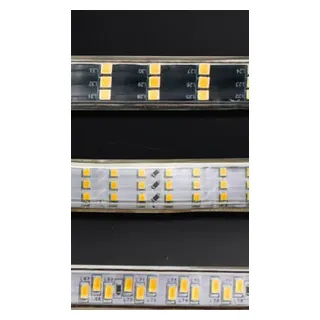
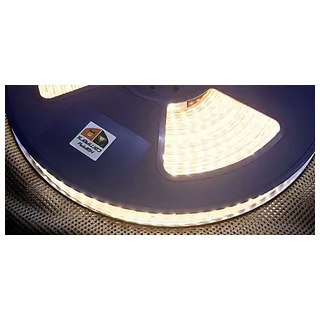
新增 G40 復古 LED 燈串 00、五米十米燈條共用圖、validate 合約同步 16 品項

diff --git a/index.html b/index.html
@@ -2221,7 +2221,7 @@
           <summary>
             <span class="ad-dw-ico">💡</span>
             <span class="ad-dw-t">照明</span>
-            <span class="ad-dw-meta">3 項・$100-300</span>
+            <span class="ad-dw-meta">4 項・$100-300</span>
             <span class="ad-dw-sel" hidden></span>
             <span class="ad-dw-arr" aria-hidden="true">›</span>
           </summary>
@@ -2240,7 +2240,7 @@
             </label>
             <label class="ad-card a-light">
               <input type="checkbox" class="ad-chk" data-name="十米黃光燈條" data-price="300" onchange="addonsUpdate()">
-              <span class="ad-photo"><img src="assets/addon-lamp-10m.webp" alt="十米黃光燈條" width="320" height="320" loading="lazy"></span>
+              <span class="ad-photo"><img src="assets/addon-lamp-5m.webp" alt="十米黃光燈條" width="320" height="320" loading="lazy"></span>
               <span class="ad-info">
                 <span class="ad-brand">照明</span>
                 <span class="ad-name">十米黃光燈條</span>
@@ -2248,6 +2248,18 @@
                 <span class="ad-note">大天幕或雙帳串接適用</span>
               </span>
               <span class="ad-price">$300<small>／次</small></span>
+              <span class="ad-tick" aria-hidden="true">✓</span>
+            </label>
+            <label class="ad-card a-light">
+              <input type="checkbox" class="ad-chk" data-name="G40 復古 LED 燈串" data-price="200" onchange="addonsUpdate()">
+              <span class="ad-photo"><img src="assets/addon-lamp-g40.webp" alt="G40 復古 LED 燈串" width="320" height="320" loading="lazy"></span>
+              <span class="ad-info">
+                <span class="ad-brand">照明</span>
+                <span class="ad-name">G40 復古 LED 燈串</span>
+                <span class="ad-meta"><span class="ad-pill">球泡 G40</span><span class="ad-pill">暖黃光</span><span class="ad-pill">防水</span><span class="ad-pill">戶外串燈</span></span>
+                <span class="ad-note">圓球泡復古氛圍，圍爐區、帳前掛一串超有感</span>
+              </span>
+              <span class="ad-price">$200<small>／次</small></span>
               <span class="ad-tick" aria-hidden="true">✓</span>
             </label>
             <label class="ad-card a-light">

diff --git a/scripts/_prep_lamp_g40.py b/scripts/_prep_lamp_g40.py
@@ -1,0 +1,29 @@
+#!/usr/bin/env python3
+"""燈條共用圖與 G40 圖處理。
+
+燈條共用圖（用戶提供 1024x1024）：裁下半圓盤區避開中央紅字「10米燈條大全配」，
+含圓盤下半弧光、網袋、調光開關與右側電源線。
+G40 圖（用戶提供 800x800）：裁下半部去橘色廣告字，留圓球泡特寫主體。
+輸出均為 320x320 白底 webp。
+"""
+from PIL import Image
+
+BASE = "/home/ubuntu/audit/campcool/assets"
+
+def to_webp(src_img, out_name):
+    canvas = Image.new("RGB", (320, 320), (255, 255, 255))
+    scale = min(310 / src_img.width, 310 / src_img.height)
+    small = src_img.resize((max(1, int(src_img.width * scale)), max(1, int(src_img.height * scale))), Image.LANCZOS)
+    canvas.paste(small, ((320 - small.width) // 2, (320 - small.height) // 2))
+    canvas.save(f"{BASE}/{out_name}", "WEBP", quality=82)
+    print("OK", out_name, src_img.size, "->", canvas.size)
+
+# 燈條共用圖：裁 (130, 470, 830, 830) 白底圓盤下半+網袋+開關+電源線，無紅字
+lamp = Image.open("/tmp/lamp10m_user.png").convert("RGB")
+lamp_c = lamp.crop((130, 490, 830, 830))
+to_webp(lamp_c, "addon-lamp-5m.webp")
+
+# G40：裁 (10, 260, 790, 640) 圓球泡主體，去底部橘字（橘字自 y≈0.80 起）
+g40 = Image.open("/tmp/g40_user.png").convert("RGB")
+g40_c = g40.crop((10, 260, 790, 640))
+to_webp(g40_c, "addon-lamp-g40.webp")

diff --git a/scripts/_grid_lamp_g40.py b/scripts/_grid_lamp_g40.py
@@ -1,0 +1,9 @@
+from PIL import Image
+BASE = "/home/ubuntu/audit/campcool/assets"
+a = Image.open(f"{BASE}/addon-lamp-5m.webp").resize((320, 320))
+b = Image.open(f"{BASE}/addon-lamp-g40.webp").resize((320, 320))
+g = Image.new("RGB", (650, 320), "white")
+g.paste(a, (0, 0))
+g.paste(b, (330, 0))
+g.save("/tmp/lamp_g40_grid.png")
+print("grid saved")

diff --git a/photos-task.md b/photos-task.md
@@ -1,40 +1,58 @@
-# CX40 圖與小物 UI/UX 優化（2026-08-16）
+# 小物區塊最新任務（2026-08-16）
 
-## 用戶需求（第三輪）
-1. 冰虎圖片：用戶提供 `/home/ubuntu/upload/1000033496.avif`（800×800，CX40 白底規格圖：主圖+尺寸標註 586×378×475mm，底部規格表）。
-2. UI/UX：卡片太小、字擠一起。盤點優化：
-   - 現況：`.ad-photo { width:56px; height:56px }`（極小！）、`.ad-brand .64rem`、`.ad-name .92rem`、`.ad-pill .64rem padding:2px 7px`、`.ad-note .68rem`、`.ad-price 1.05rem`、卡片 padding 未指定（預設小）、`.ad-grid 1fr 1fr`（<520px 單欄）。
-   - 卡片 label flex row、gap 10px。
-3. 冰箱注意事項：刪掉 `⚠ 移動冰箱使用注意` + 4 張 cc-notice 卡（2356-2363 行），改為「整體租借保障」：商品有問題請於抵達營區時立即反應；不清楚使用方式請與店家詢問或上網搜尋，使用不當導致故障將酌收費用。
+## 本輪需求（第四輪）
+1. 五米/十米燈條改用同一張圖（10 米燈條共用圖）。
+2. 新增品項：G40 復古 LED 燈串 $200（加入「照明」分類，目前照明分類：五米燈條 $200 / 十米燈條 $300 / 持久帳篷小燈 $100）。
+3. 前輪 UI/UX 優化（卡片放大 + CX40 圖 + 租借保障文案）已 commit c3e3321，CI Site check success，Pages 部署中。
 
-## 現況盤點（index.html）
-- 冰箱卡片：2111 行附近 `<label class="ad-card a-fridge">`，img = `assets/addon-fridge-c40.webp`（第 2114 行）。
-- 注意事項區塊：2356 `<div class="cc-sh">⚠ 移動冰箱使用注意</div>` + 2357 `<hr class="cc-shdiv">` + 2358 `<div class="cc-grid">` + 2359-2362 四張 cc-notice + 2363 `</div>`。後面是 cc-linebanner。
-- 待確認提示（2355）：`※ 標示「待確認」的規格請於 LINE 詢問時一併確認。小物依當日庫存供應。僅「電吉拉 mini 行動電站」需另收押金 $1,000，其餘品項不收押金。`
-- 現有圖片 15 張全有（addon-*.webp 清單已確認）。
-- validate 斷言會檢查：ad-name 15 品項、ad-note 存在、lin.ee、gtag、webp 引用、noindex、死重圖缺席、llms 日期等。
+## 圖片檔案
+- 燈條共用圖（用戶提供）：`/home/ubuntu/upload/1000033498.avif` 轉出 `/tmp/lamp10m_user.png`（1024×1024）
+  - 內容：黑色網袋上的 LED 燈條圓盤＋綠色束帶＋白色電源線＋調光開關，中央紅字「10米燈條大全配」需裁除，上方有小貼紙、左下有 SMD5050 標籤（可保留或裁）。
+  - 裁法：圓盤主體約 (0.13, 0.19, 0.82, 0.82)；紅字在 (0.31-0.64, 0.40-0.46)。裁圓盤區避開紅字：用 (0.14, 0.20, 0.80, 0.80) 但紅字在圓盤內！紅字就在圓盤中央。圓盤中心 y≈0.50，紅字 y≈0.40-0.47。避開紅字要裁掉圓盤上半部——不行。
+  - 最佳解：直接裁圓盤整體（紅字是「10米燈條大全配」五字），然後考慮：五米也用這張圖（用戶說可用同樣的圖），卡上文字已寫「五米」/「十米」，圖上有「10米」字樣→ 紅字必須裁。圓盤主體佔 (0.15, 0.20, 0.80, 0.80)；紅字區 (0.30, 0.39, 0.66, 0.47)。可裁 (0.15, 0.47, 0.80, 1.0) 只留圓盤下半+網袋？下半圓盤+線。另解：裁方形 (0.15, 0.20, 0.80, 0.80) 後用白色 patch 蓋紅字？圖是白底、圓盤上紅字。圓盤深藍色，patch 難看。
+  - 決定：裁下半圓盤 (0.13, 0.48, 0.82, 0.82)：保留圓盤下半弧光、網袋、調光開關、右側電源線與插頭。無任何字樣。方形框內主體飽滿。
+- G40 圖（用戶提供）：`/home/ubuntu/upload/1000033497.avif` 轉出 `/tmp/g40_user.png`（800×800）
+  - 內容：G40 球形 LED 燈串暖光特寫（黑線四顆球泡），頂部有屋頂背景，底部橘色廣告字「質感厚實 G40 LED燈串 UL-CUL-CE-UKCA認證」。
+  - 裁法：圓球主體區約 (0.02, 0.33, 0.98, 0.80)，裁掉底部橘色字區（y>0.80）。
 
-## CX40 裁切計劃
-主圖在左上偏中（含 CX40 標籤、尺寸標註線）。裁 (0, 0, 1, 0.74) 留主圖+尺寸（避開底部規格表），白底。規格表資訊頁面已有 pill，可省略。裁完 320×320 白底 webp 覆蓋 `assets/addon-fridge-c40.webp`。
-（alt 是「C40 移動冰箱 40L」，頁面具名冰虎 ALPICOOL；圖為 CX40——品牌標示不衝突，冰虎有 CX40 型號。）
+## 品項資料（新增 G40 復古 LED 燈串）
+- 品項名：G40 復古 LED 燈串 / data-name="G40 復古 LED 燈串" data-price="200"
+- 分類：照明（a-light），ad-brand 空或「復古 G40」——用 `<span class="ad-brand">復古 G40</span>`
+- ad-name：G40 復古 LED 燈串
+- ad-meta pills：球泡 G40、暖黃光、防水、戶外串燈（4 顆 pill）
+- ad-note：圓球泡復古氛圍，圍爐區、帳前掛一串超有感
+- 價格：$200（照明分類 4 項，合計 $900）
+- 檔位置入：照明 drawer 內，十米燈條卡片之後（2240 行附近）
+- validate 斷言：addonContract 必須加「G40 復古 LED 燈串」200；照明分類 meta 4 項・$900 改 4 項・$900（原 3 項・$600）
+- JS 內照明總計字串要同步改（grep "照明" 3 項・$600）
 
-## UI 優化方案（決定）
-- `.ad-photo` 56px → 96px，border-radius 14px
-- `.ad-name` .92rem → 1.05rem
-- `.ad-brand` .64rem → .72rem
-- `.ad-pill` .64rem → .72rem, padding 3px 8px
-- `.ad-note` .68rem → .78rem
-- `.ad-price` 1.05rem → 1.15rem
-- `.ad-grid gap` 10 → 12; `.ad-card` padding 8px → 12px
-- `cc-notice li` .82rem → .85rem
-- 卡片 hover/pressed 不變；保持零建置（只改 inline CSS）
+## 現有檔名慣例
+- 燈條：assets/addon-lamp-5m.webp、addon-lamp-10m.webp（共用同一張圖）
+- G40 新檔名：assets/addon-lamp-g40.webp
 
-## 狀態（已於 2026-08-16 完成）
-- [x] 盤點完成
-- [x] 裁 CX40 圖：`scripts/_prep_cx40.py` 執行成功，assets/addon-fridge-c40.webp 已覆蓋（白底 CX40 主圖+尺寸標註+小圖，乾淨）
-- [x] CSS 放大：ad-photo 56→92px、ad-name .92→1.05rem、ad-brand .64→.72、ad-pill .64→.72、ad-note .68→.78、ad-price 1.05→1.15、gap 10→12、ad-card padding 14px
-- [x] 注意事項改保障：「⚠ 移動冰箱使用注意」+4張 cc-notice →「🛡 租借保障」2張（抵營區立即檢查／使用前請先熟悉＋使用不當酌收費用）
-- [ ] validate/selftest + commit + push + CI
-- [ ] AI-README 更新（CX40 圖來源=老闆提供規格圖、卡片 UI 放大、注意事項→保障）
+## 狀態
+- [x] 前輪 commit c3e3321（CI success，Pages 部署中）
+- [x] 燈條/G40 圖轉 png 完成
+- [ ] 裁燈條共用圖（去紅字）+ G40 去橘字，產 320×320 webp
+- [ ] 五米十米 img src 換同一檔、新增 G40 卡片 HTML + JS 照明總計
+- [ ] validate（16 品項合約！注意斷言數量）+ selftest + commit + push + CI
+- [ ] AI-README 更新 + 交付
 
-注意：validate 斷言含必留文字與禁入標記（/public/booking-leads 等），改動未觸及。cc-notice 類別 CSS 保留（其它頁面可能用）。
+## validate 注意
+validate 斷言 12 檢查 15 品項全存在——新增第 16 品項必須同步更新 validate 的 addonContract 清單與斷言計數（15→16），另加 G40 卡片必須有 img（review webp 政策斷言可能抓 img src 格式）。
+
+## 第一輪裁切檢查結果
+- 燈條共用圖：圓盤下半+網袋 OK，但左上殘留「大全配」三個字（頂部白字）。紅字實際比預估寬：字在 (0.30-0.66, 0.39-0.47)，我裁 top=470（比例 0.46）仍擦到頂。調 top=490。
+- G40：圓球泡特寫 OK 乾淨，採用。
+
+第二輪燈條檢查：殘字（大全配）已清除；左下網袋上有 SMD5050 小標籤殘影（深藍底白字小貼紙）。小且貼合網袋材質，視覺上像包裝標籤非賣場行銷字，且為商品真實資訊，可接受。兩張採用。
+
+## G40 新增進度（2026-08-16）
+兩張圖已產出（320×320 webp）：assets/addon-lamp-5m.webp（燈條共用圖，裁下半圓盤去紅字，左下 SMD5050 小標籤可接受）、assets/addon-lamp-g40.webp（G40 球泡特寫去橘字）。
+
+index.html 已完成：照明 summary 3 項・$100-300 → 4 項・$100-300；十米燈條 img 改為 addon-lamp-5m.webp 共用；G40 卡片已插入十米燈條之後（ad-brand 照明、data-name/data-price 200、pill 球泡G40/暖黃光/防水/戶外串燈、note 圓球泡復古氛圍）。
+
+validate-site.mjs 已完成：addonContract 16 品項（G40 復古 LED 燈串 已加入）、addonCount 15→16。llms.txt 需同步：15 品項→16 品項（含 16 品項小物清單與價格表）。
+
+剩：llms.txt 更新（品項數+價格 $200）、node --check inline JS、run validate + selftest、git add -A commit push、CI 確認、AI-README 更新、交付。
+CI 前輪 c3e3321 已 success（Site check）；Pages 部署當時 in_progress。
